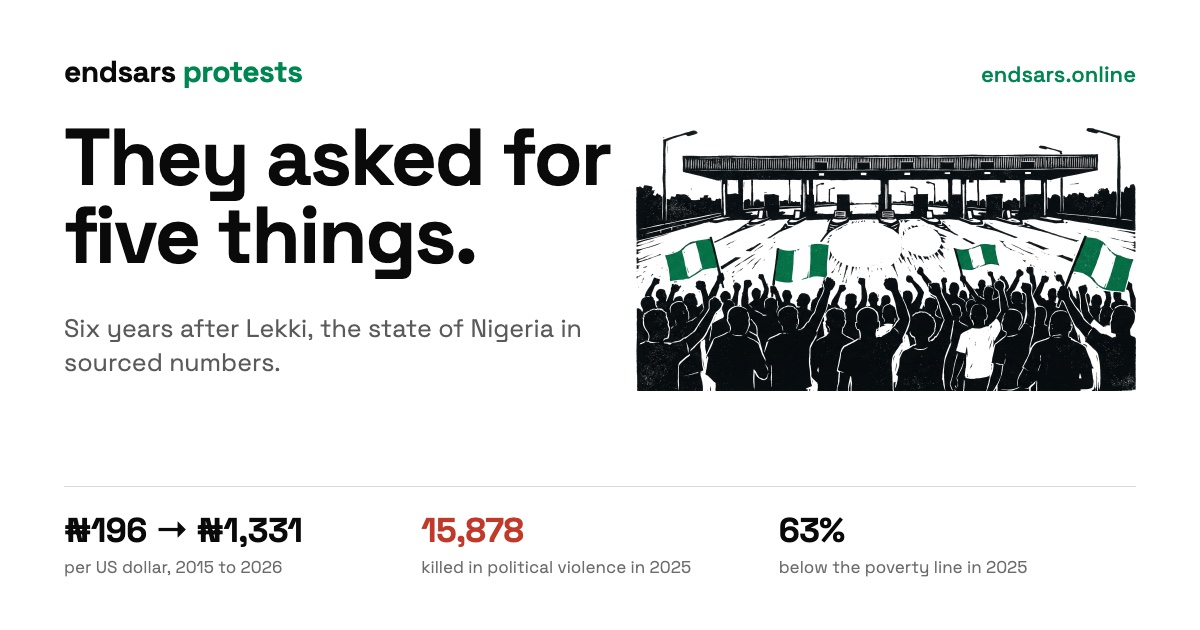
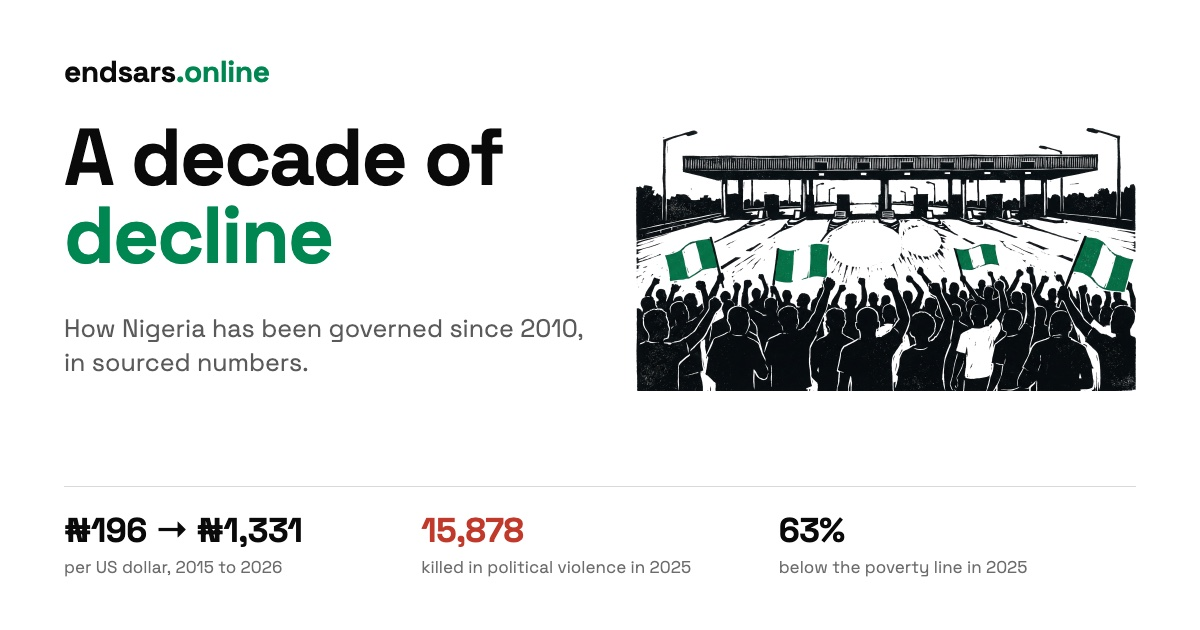
Update share image and SEO copy to match the new hero

diff --git a/app/pages/index.vue b/app/pages/index.vue
@@ -1,24 +1,24 @@
 <script setup lang="ts">
 useSeoMeta({
-  title: "Six years after Lekki: Nigeria in numbers",
-  description: "What happened to Nigeria after #EndSARS: the naira, prices, debt, poverty, power, health, emigration, violence and corruption. Every number is sourced.",
-  ogTitle: "Six years after Lekki: Nigeria in numbers",
-  ogDescription: "In 2025, 15,878 Nigerians were killed in political violence, the most on record. A dollar costs ₦1,331. 63% of Nigerians are poor. Every number is sourced.",
-  ogImage: "https://endsars.online/og-image.jpg",
-  ogImageSecureUrl: "https://endsars.online/og-image.jpg",
+  title: "A decade of decline: Nigeria in numbers",
+  description: "How Nigeria has been governed since 2010: the naira, prices, debt, poverty, power, health, emigration, violence and corruption. Every number is sourced.",
+  ogTitle: "A decade of decline: Nigeria in numbers",
+  ogDescription: "Since 2010 the naira has collapsed, prices have soared and killings have spread. 15,878 Nigerians were killed in 2025. 63% are poor. Every number is sourced.",
+  ogImage: "https://endsars.online/og-image.jpg?v=2",
+  ogImageSecureUrl: "https://endsars.online/og-image.jpg?v=2",
   ogImageWidth: 1200,
   ogImageHeight: 630,
   ogImageType: "image/jpeg",
-  ogImageAlt: "They asked for five things. Six years after Lekki, the state of Nigeria in sourced numbers: ₦196 to ₦1,331 per dollar, 15,878 killed in 2025, 63% below the poverty line.",
+  ogImageAlt: "A decade of decline: how Nigeria has been governed since 2010, in sourced numbers. ₦196 to ₦1,331 per dollar, 15,878 killed in 2025, 63% below the poverty line.",
   ogType: "website",
   ogUrl: "https://endsars.online/",
   ogSiteName: "endsars.online",
   ogLocale: "en_NG",
   twitterCard: "summary_large_image",
-  twitterTitle: "Six years after Lekki: Nigeria in numbers",
-  twitterDescription: "In 2025, 15,878 Nigerians were killed in political violence, the most on record. A dollar costs ₦1,331. 63% of Nigerians are poor. Every number is sourced.",
-  twitterImage: "https://endsars.online/og-image.jpg",
-  twitterImageAlt: "They asked for five things. Six years after Lekki, the state of Nigeria in sourced numbers: ₦196 to ₦1,331 per dollar, 15,878 killed in 2025, 63% below the poverty line.",
+  twitterTitle: "A decade of decline: Nigeria in numbers",
+  twitterDescription: "Since 2010 the naira has collapsed, prices have soared and killings have spread. 15,878 Nigerians were killed in 2025. 63% are poor. Every number is sourced.",
+  twitterImage: "https://endsars.online/og-image.jpg?v=2",
+  twitterImageAlt: "A decade of decline: how Nigeria has been governed since 2010, in sourced numbers. ₦196 to ₦1,331 per dollar, 15,878 killed in 2025, 63% below the poverty line.",
   robots: "index, follow, max-image-preview:large",
 });
 
@@ -39,7 +39,7 @@ useHead({
           description:
             "What happened to Nigeria after the #EndSARS protests: the naira, prices, debt, poverty, power, health, emigration, violence and corruption, with every number sourced.",
           url: "https://endsars.online",
-          image: "https://endsars.online/og-image.jpg",
+          image: "https://endsars.online/og-image.jpg?v=2",
           datePublished: "2024-10-20",
           dateModified: "2026-09-18",
           publisher: {

diff --git a/nuxt.config.ts b/nuxt.config.ts
@@ -9,7 +9,7 @@ export default defineNuxtConfig({
   site: {
     url: "https://endsars.online",
     name: "endsars.online",
-    description: "What happened to Nigeria after #EndSARS: the naira, prices, debt, poverty, power, health, emigration, violence and corruption. Every number is sourced.",
+    description: "How Nigeria has been governed since 2010: the naira, prices, debt, poverty, power, health, emigration, violence and corruption. Every number is sourced.",
     defaultLocale: "en",
   },
 
